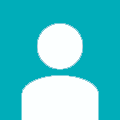
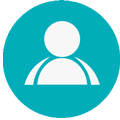
Se arreglo los formularios de registro y el dashboard.

diff --git a/public/css/bootstrap-theme.min.css b/public/css/bootstrap-theme.min.css
@@ -40,3 +40,95 @@ color:#fff;
 .btn-link{
 color:#00adb9;
 }
+
+.step1
+{
+	background: #fff;
+	color: black;
+	border-radius: 10px;
+	border: 1px solid black;
+	padding: 16px 16px 16px 16px;
+	text-align: center;
+}
+.step1 .form-inline
+{
+	margin: 0.5em 0.5em 0.5em 0.5em;
+}
+.step1 button
+{
+	margin: 2em 0.5em 0.5em 0.5em;
+}
+.category
+{
+	background: #042333;
+	color: #DDD;
+	border: 1px solid #DDD;
+	overflow: hidden;
+	font-size: 16px;
+	padding: 1em 1em 1em 1em;
+}
+.category:hover
+{
+	background: #444;
+}
+.category a
+{
+	color: #DDD;
+	text-decoration: none;
+}
+.category a:hover
+{
+	color: #FFF;
+	text-decoration: none;
+}
+.interest
+{
+	background: #00acb9;
+	color: #fff;
+	border: 1px solid #222;
+	overflow: hidden;
+	font-size: 12px;
+	height: 5em;
+}
+.interest:hover
+{
+	background: #FFF;
+}
+.interest a
+{
+	color: #222;
+	text-decoration: none;
+}
+.interest a:hover
+{
+	color: #FFF;
+	text-decoration: none;
+}
+.interest label
+{
+	margin: 0;
+	width: 100%;
+	padding: 1em 1em 1em 1em;
+	height: 100%;
+}
+.testimonials .content {
+border-radius: 4px;
+background: #f8faff;
+padding: 1em 1em 1em 1em;
+height: 400px;
+}
+.testimonials .image
+{
+	background: url(../images/testimonials.png) repeat top left;
+	width: 400px;
+	height: 300px;
+	margin: 0 auto;
+}
+.testimonials .twitter
+{
+	color: #66CCCC;
+}
+.testimonials .title
+{
+	color: #000;
+}

diff --git a/public/dashboard/css/dashboard/dashboard.css b/public/dashboard/css/dashboard/dashboard.css
@@ -229,14 +229,14 @@ div.input-mask {
  * Sidebar
  */
 #sidebar-wrapper {
-  background: #30426a;
+  background: #01446d;
 }
 ul.sidebar .sidebar-main a,
 .sidebar-footer,
 ul.sidebar .sidebar-list a:hover,
 #page-wrapper:not(.active) ul.sidebar .sidebar-title.separator {
   /* Sidebar header and footer color */
-  background: #2d3e63;
+  background: #00acb9;
 }
 ul.sidebar {
   position: absolute;
@@ -270,7 +270,7 @@ ul.sidebar .sidebar-main .menu-icon {
   line-height: 60px;
 }
 ul.sidebar .sidebar-title {
-  color: #738bc0;
+  color: #fff;
   font-size: 12px;
   height: 35px;
   line-height: 40px;
@@ -282,7 +282,7 @@ ul.sidebar .sidebar-list {
 ul.sidebar .sidebar-list a {
   text-indent: 25px;
   font-size: 15px;
-  color: #b2bfdc;
+  color: #ffffff;
   line-height: 40px;
 }
 ul.sidebar .sidebar-list a:hover {
@@ -327,7 +327,7 @@ ul.sidebar .sidebar-list .menu-icon {
   text-align: center;
 }
 .sidebar-footer div a {
-  color: #b2bfdc;
+  color: #ffffff;
   font-size: 12px;
   line-height: 43px;
 }

diff --git a/app/views/customization/angular-customization.blade.php b/app/views/customization/angular-customization.blade.php
@@ -1,44 +1,54 @@
 @if(Session::get('email')!="" || Session::get('email')!=NULL)
-<div class="container" ng-app="customizationApp" ng-controller="mainController">
+<div class="container" style="padding-top:25px" ng-app="customizationApp" ng-controller="mainController">
 <!--Step 1, the user choose the age, sex, and location --> 
-<div class="col-md-7 col-md-offset-2 step1" id="step1">
-	<form ng-submit="submitUserInfo()">		
-	<h1>{{trans('pages.aboutyou')}}</h1>
-	<div class="form-inline">
+<div class="col-md-8 col-md-offset-2 step1" id="step1">
+	<form class="form-inline" ng-submit="submitUserInfo()">
+	<h1 class="form-signin-heading" style='color:black'>{{trans('pages.aboutyou')}}</h1>	<br/>	
 		<div class="form-group">
-			<label for="age">{{trans('pages.ageiam')}} </label> <input type="number" class="form-control" min="18" max="120" name="age" ng-model="userData.age" id="age" value="43" required/></div> <div class="form-group"><label for="sex"> {{trans('pages.old')}}</label>
+			<label for="age">{{trans('pages.ageiam')}} </label>
+		</div>
+		<div class="form-group">
+			<input type="number" class="form-control" min="18" max="120" name="age" ng-model="userData.age" id="age" value="43" required/>
+		</div> 
+		<div class="form-group">
+			<label for="sex"> {{trans('pages.old')}}</label>
+		</div>
+		<div class="form-group">
 		<select class="form-control" ng-model="userData.sex" name="sex" id="sex">			
 			<option value="" selected>{{trans('pages.chooseSex')}}</option>
 			<option value="0">{{trans('pages.woman')}}</option>
 			<option value="1">{{trans('pages.man')}}</option>
-		</select> </div> <label for="country"> {{trans('pages.livein')}}</label>
-		</div>
-		<input type="hidden" id="userId" value="{{ Session::get('userId') }}" required/>
-		<div class="form-inline">
-			<div class="form-group">
-				<label>{{trans('pages.country')}}</label> <br/> 
+		</select> 
+	    </div> <br/><br/>
+	    <div class="form-group">
+	    	<label for="country"> {{trans('pages.livein')}}</label>
+	    </div>
+	    <div class="form-group">
+	    		<input type="hidden" id="userId" value="{{ Session::get('userId') }}" required/>
 				<select class="form-control" ng-model="userData.country" name="country" id="country" required></select>
-			</div>
+		</div>
+		<div class="form-group">
+		<label>{{trans('pages.state')}}</label><br/> 
+		</div>
 			<div class="form-group">
-				<label>{{trans('pages.state')}}</label><br/> 
+				
 				<select class="form-control" ng-model="userData.state" name="state" id="state" required></select>
 			</div>
-		</div>
-		<div class="form-inline">
-			<div class="form-group">
+		<div class="form-group">
 				<label>{{trans('pages.city')}}</label> <br/> 
-				<select class="form-control" ng-model="userData.city" name="city" id="city" required></select>
-			</div>
 		</div>
-		<div class="form-group text-right">	
-			<button type="submit" class="btn btn-danger btn-lg">{{trans('pages.next')}}</button>
+			<div class="form-group">
+				<select class="form-control" ng-model="userData.city" name="city" id="city" required></select>
+			</div><br/>
+		<div class="">	
+			<button type="submit" class="btn btn-block">{{trans('pages.next')}}</button>
 		</div>		
 	</form>
 	</div>
 	<!--Step 2, the user choose the categories and the interests --> 
 	<div class="col-md-8 col-md-offset-2 step1" id="step2">
 		<form ng-submit="submitCategoryInfo()">
-			<h1>{{trans('pages.areyouinterested')}}</h1>
+			<h1 class="form-signin-heading" style='color:black'>{{trans('pages.areyouinterested')}}</h1>
 			<div class="row contenedor-intereses">
 				<div id="c<% category.id %>" class="col-md-3 category" ng-hide="loading" ng-repeat="category in categories">
 						<a href="#" ng-click="showInterests(category.id)">
@@ -59,7 +69,7 @@
 				</div>
 			</div>			
 			<div class="form-group">
-				<button type="submit" class="btn btn-danger btn-lg">{{trans('pages.next')}}</button>
+				<button type="submit" class="btn btn-block">{{trans('pages.next')}}</button>
 			</div>
 		</form>
 	</div>

diff --git a/app/views/sessions/login.blade.php b/app/views/sessions/login.blade.php
@@ -12,18 +12,17 @@
         <div class="col-sm-6 col-md-4 col-md-offset-4">
             {{ Form::open(array('action' => 'SessionController@store')) }}
             <div class="account-wall">
-                <img class="profile-img" src="{{asset('images/photo.png')}}?sz=120"
-                    alt="">
+                <img class="profile-img" src="{{asset('images/photo.png')}}?sz=120" alt="">
                 <form class="form-signin">
-                <div class="{{ ($errors->has('email')) ? 'has-error' : '' }}">
+                <div class="form-group {{ ($errors->has('email')) ? 'has-error' : '' }}">
                 {{ Form::text('email', null, array('class' => 'form-control', 'placeholder' => 'Email', 'autofocus')) }}
                 {{ ($errors->has('email') ? $errors->first('email') : '') }}
                 </div>
-                <div class="{{ ($errors->has('password')) ? 'has-error' : '' }}">
+                <div class="form-group {{ ($errors->has('password')) ? 'has-error' : '' }}">
                 {{ Form::password('password', array('class' => 'form-control', 'placeholder' => 'Password'))}}
                 {{ ($errors->has('password') ?  $errors->first('password') : '') }}
                 </div>
-                {{ Form::submit(Lang::get('pages.login'), array('class' => 'btn btn-lg  btn-block'))}}
+                {{ Form::submit(Lang::get('pages.login'), array('class' => 'btn btn-block'))}}
                 <div class="row">
                 <div class="col-xs-6">
                 <label class="checkbox">

diff --git a/app/views/users/create.blade.php b/app/views/users/create.blade.php
@@ -8,12 +8,13 @@
 
 {{-- Content --}}
 @section('content')
-<div class="row">
-    <div class="col-md-4 col-md-offset-4">
+<div class="container">
+    <div class="row">
+        <div class="col-sm-6 col-md-4 col-md-offset-4">
         {{ Form::open(array('action' => 'UserController@store')) }}
-
+        <div class="account-wall">
+            <img class="profile-img" src="{{asset('images/register.png')}}" alt="">
             <h2 class="form-signin-heading">{{trans('signinform.title')}}</h2>
-
             <div class="form-group {{ ($errors->has('email')) ? 'has-error' : '' }}">
                 {{ Form::text('email', null, array('class' => 'form-control', 'placeholder' => 'E-mail')) }}
                 {{ ($errors->has('email') ? $errors->first('email') : '') }}
@@ -29,11 +30,12 @@
                 {{ ($errors->has('password_confirmation') ?  $errors->first('password_confirmation') : '') }}
             </div>
             
-            {{ Form::submit(Lang::get('signinform.signin'), array('class' => 'btn btn-primary')) }}
+            {{ Form::submit(Lang::get('signinform.signin'), array('class' => 'btn btn-block')) }}
             
         {{ Form::close() }}
+            </div>
+        </div>
     </div>
 </div>
-
 
 @stop

diff --git a/app/views/sponsors/create.blade.php b/app/views/sponsors/create.blade.php
@@ -8,10 +8,12 @@
 
 {{-- Content --}}
 @section('content')
-<div class="row">
-    <div class="col-md-4 col-md-offset-4">
+<div class="container">
+    <div class="row">
+        <div class="col-sm-6 col-md-4 col-md-offset-4">
         {{ Form::open(array('action' => 'SponsorController@store')) }}
-
+            <div class="account-wall">
+            <img class="profile-img" src="{{asset('images/register.png')}}" alt="">
             <h2 class="form-signin-heading">{{trans('signinform.title')}}</h2>
 
             <div class="form-group {{ ($errors->has('email')) ? 'has-error' : '' }}">
@@ -29,11 +31,12 @@
                 {{ ($errors->has('password_confirmation') ?  $errors->first('password_confirmation') : '') }}
             </div>
             
-            {{ Form::submit(Lang::get('signinform.signin'), array('class' => 'btn btn-primary')) }}
+            {{ Form::submit(Lang::get('signinform.signin'), array('class' => 'btn btn-block')) }}
             
         {{ Form::close() }}
+         </div>
+        </div>
     </div>
 </div>
-
 
 @stop

diff --git a/app/views/customization/customization.blade.php b/app/views/customization/customization.blade.php
@@ -9,21 +9,6 @@
 {{-- Content --}}
 @section('content')
 
-<div class="">
-	<ul class="cb-slideshow">
-            <li><span>Image 01</span><div><h3>{{trans('pages.slide1')}}</h3></div></li>
-            <li><span>Image 02</span><div><h3>{{trans('pages.slide2')}}</h3></div></li>
-            <li><span>Image 03</span><div><h3>{{trans('pages.slide3')}}</h3></div></li>
-            <li><span>Image 04</span><div><h3>{{trans('pages.slide4')}}</h3></div></li>
-            <li><span>Image 05</span><div><h3>{{trans('pages.slide5')}}</h3></div></li>
-            </ul>
-  <div class="container">
-  	<header>
-                <h1><span>{{trans('pages.copy')}}</span></h1>
-                <h2>{{trans('pages.nextaction')}}</h2>
-    </header>
-  </div>
-</div>
 
 @include('customization/angular-customization'); <!-- app/views/cistomization/angular-customization.php -->
 

diff --git a/app/views/sponsors/dashboard.blade.php b/app/views/sponsors/dashboard.blade.php
@@ -79,7 +79,7 @@
             <div class="user pull-right">
               <div class="item dropdown">
                 <a href="#" class="dropdown-toggle">
-                  <img src="{{ asset('images/users/user.png')}}">
+                  <img src="{{ asset('images/photo.png')}}">
                 </a>
                 <ul class="dropdown-menu dropdown-menu-right">
                   <li class="dropdown-header">

diff --git a/app/views/users/dashboard.blade.php b/app/views/users/dashboard.blade.php
@@ -80,7 +80,7 @@
             <div class="user pull-right">
               <div class="item dropdown">
                 <a href="#" class="dropdown-toggle">
-                  <img src="{{ asset('images/users/user.png')}}">
+                  <img src="{{ asset('images/photo.png')}}">
                 </a>
                 <ul class="dropdown-menu dropdown-menu-right">
                   <li class="dropdown-header">

diff --git a/app/lang/en/pages.php b/app/lang/en/pages.php
@@ -118,7 +118,7 @@ return array(
 
 	'forbidden'	=> "Forbidden",
 
-	'aboutyou'	=> "Something about you!",
+	'aboutyou'	=> "Tell us about yourself...",
 
 	'almostdone'	=> "Almost Done!",
 
